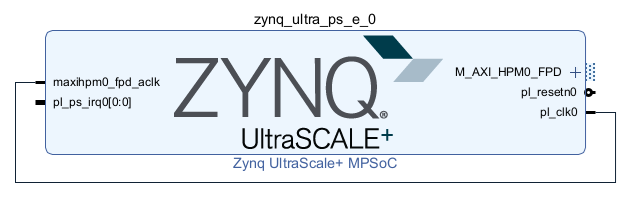
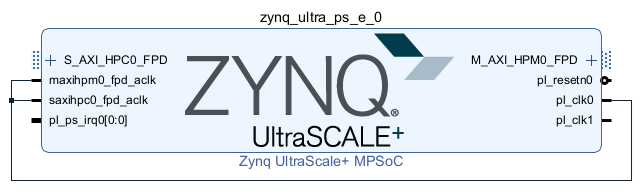
Antelope tutorial: Add DPU IP

Changed region(s): [[0.0, 0.0615, 0.9905, 0.9538]]

diff --git a/src/tutorials/antelope/zero_to_hero/dpu.rst b/src/tutorials/antelope/zero_to_hero/dpu.rst
@@ -1,0 +1,319 @@
+Deep-learning Processor Unit
+============================
+
+Goal
+----
+
+.. note:: TODO
+
+A bit of background
+-------------------
+
+.. note:: TODO
+
+Prerequisites
+-------------
+* Preset with Processing System configuration from :doc:`/tutorials/antelope/zero_to_hero/enable_pl_support`
+* Yocto project with Programmable Logic support from :doc:`/tutorials/antelope/zero_to_hero/enable_pl_support`
+
+Download Deep-learning Processor Unit repository
+------------------------------------------------
+1. On machine with Vivado create ``dpu-ip-repo`` directory.
+2. Download DPU IP block from https://xilinx.github.io/Vitis-AI/3.5/html/docs/workflow-system-integration.html#ip-and-reference-designs.
+
+   * Use 'IP-only download' link for 'MPSoC & Kria K26' platform.
+
+3. Unpack downloaded archive to ``dpu-ip-repo`` directory.
+
+   * Make sure that after extracting, directory ``DPUCZDX8G_v4_1_0`` is directly in ``dpu-ip-repo``.
+
+Create bitstream with Deep-learning Processor Unit
+---------------------------------------------------
+1. Start Vivado and create new project. In new project wizard select following options:
+
+   * Project type: RTL Project
+
+     * Select 'Don't specify sources at this time'
+     * Don't select 'Project is an extensible Vitis platform'
+
+   * Part: ``xczu4cg-sfvc784-1L-i``
+2. Add DPU IP repository to project
+
+   1. Open settings by clicking on 'Settings' in 'Flow Navigator'.
+   2. Go to 'Project Settings' -> 'IP' -> 'Repository'.
+   3. Add ``dpu-ip-repo`` directory to list of repositories.
+
+      Vivado will show confirmation message and list 'Deep-learning Process Unit' as newly added IP.
+
+3. Create top-level block design by using 'Create Block Design' in Flow Navigator. Use ``dpu_bd`` as name.
+4. In block design diagram editor add Zynq UltraScale+ MPSoC IP block.
+5. Start customization of Zynq UltraScale+ MPSoC IP block by double-clicking on it.
+
+   1. Apply previously exported preset by selecting ``Presets`` -> ``Apply configuration`` and select ``antelope-minimalistic-with-pl.tcl`` file.
+
+6. Add Deep-learning Process Unit IP block to block design.
+7. Customize Deep-learning Process Unit block by double-clicking on it.
+
+   1. On 'Arch' tab set 'Arch of DPU' to 'B1024'
+
+8. Add AXI SmartConnect IP to block design
+9. Customize AXI SmartConnect IP by double-clicking on it.
+
+   1. Set 'Number of slave interfaces' to '3'
+   2. Set 'Number of master interfaces' to '1'
+
+10. Connect output pin ``dpu0_interrupt`` of DPU IP block to input pin ``pl_ps_irq`` of Zynq UltraScale+ MPSoC IP block.
+11. Connect ``DPU0_M_AXI_DATA0`` output port to ``S00_AXI`` input port of AXI SmartConnect IP block.
+12. Connect ``DPU0_M_AXI_DATA1`` output port to ``S01_AXI`` input port of AXI SmartConnect IP block.
+13. Connect ``DPU0_M_AXI_INSTR`` output port to ``S02_AXI`` input port of AXI SmartConnect IP block.
+14. Click 'Run connection automation' to fill out missing connections
+
+    1. Enable all detected automations by checking checkbox for 'All automation'
+    2. Select 'All automation' / 'dpuczdx8g_0' / 'dpu_2x_clk' and change settings:
+
+       * Set 'Clock source' to '/zynq_ultra_ps_e_0/pl_clk1'
+
+    3. Select 'All automation' / 'dpuczdx8g_0' / 'm_axi_dpu_aclk' and change settings:
+
+       * Set 'Clock source' to '/zynq_ultra_ps_e_0/pl_clk0'
+
+    3. Select 'All automation' / 'dpuczdx8g_0' / 'S_AXI' and change settings:
+
+       * Set 'Clock source for driving Bridge IP' to '/zynq_ultra_ps_e_0/pl_clk0'
+       * Set 'Clock source for driving Slave interface' to '/zynq_ultra_ps_e_0/pl_clk0'
+       * Set 'Clock source for driving Master interface' to '/zynq_ultra_ps_e_0/pl_clk0'
+15. Final block design should look like this:
+
+    .. figure:: ./DPU/dpu_bd.png
+       :align: center
+
+       Block design with Deep-learning Processor Unit
+
+14. In Sources view select Design Sources -> ``dpu_bd`` and click 'Create HDL Wrapper' in context menu. Use 'Let Vivado manage wrapper and auto-update' option.
+15. Generate bitstream
+
+   .. warning:: Compared to previous tutorials, generating bitstream might take significantly longer time.
+
+16. Export hardware including bitstream to file ``antelope-dpu-bd.xsa``
+
+Add Vitis layers to Yocto Project
+---------------------------------
+1. Clone ``meta-oe`` layer
+
+   .. code-block:: shell-session
+
+      machine:~/antelope-linux-1/build$ git clone -b nanbield https://git.openembedded.org/meta-openembedded ../sources/meta-openembedded
+
+1. Clone Xilinx ``meta-vitis`` layer:
+
+   .. code-block:: shell-session
+
+       machine:~/antelope-linux-1/build$ git clone -b rel-v2024.1 https://github.com/Xilinx/meta-vitis.git ../sources/meta-vitis
+
+2. Retrieve KP Labs-provided ``meta-kp-vitis-ai`` layer and save it as ``~/antelope-linux-1/sources/meta-kp-vitis-ai``.
+3. Apply patches to ``meta-vitis`` that fix support for ``nanbield`` Yocto version
+
+   .. code-block:: shell-session
+
+       machine:~/antelope-linux-1/sources/meta-vitis$ git am ../meta-kp-vitis-ai/patches/*.patch
+       Applying: Switch to nanbield
+       Applying: bbappend to any glog version
+
+4. Add layers to Yocto project:
+
+   .. code-block:: shell-session
+
+      machine:~/antelope-linux-1/build$ bitbake-layers add-layer ../sources/meta-openembedded/meta-oe
+      machine:~/antelope-linux-1/build$ bitbake-layers add-layer ../sources/meta-openembedded/meta-python
+      machine:~/antelope-linux-1/build$ bitbake-layers add-layer ../sources/meta-vitis
+      machine:~/antelope-linux-1/build$ bitbake-layers add-layer ../sources/meta-kp-vitis-ai
+
+5. Change recipe providing ``opencl-icd`` by adding configuarion option to ``~/antelope-linux-1/build/conf/local.conf``.
+
+   .. code-block::
+
+       PREFERRED_PROVIDER_virtual/opencl-icd = "ocl-icd"
+
+   .. note:: ``meta-vitis`` layer requires particular project configuration
+
+Add Deep-learning Processor Unit bitstream to Linux image
+---------------------------------------------------------
+1. Create directory ``~/antelope-linux-1/sources/meta-local/recipes-example/bitstreams/antelope-dpu/`` and copy ``antelope-dpu-bd.xsa`` to it.
+2. Create new recipe ``~/antelope-linux-1/sources/meta-local/recipes-example/bitstreams/antelope-dpu.bb`` that will install bitstream with double UART.
+
+   .. code-block::
+
+        LICENSE = "CLOSED"
+
+        inherit bitstream
+
+        SRC_URI += "file://antelope-dpu-bd.xsa"
+        BITSTREAM_HDF_FILE = "${WORKDIR}/antelope-dpu-bd.xsa"
+
+3. Create recipe append for kernel
+
+   .. code-block:: shell-session
+
+       machine:~/antelope-linux-1/build$ recipetool newappend --wildcard-version ../sources/meta-local/ linux-xlnx
+
+4. Create directory ``~/antelope-linux-1/sources/meta-local/recipes-kernel/linux/linux-xlnx``.
+5. Enable Xilinx DPU kernel driver module by creating file ``~/antelope-linux-1/sources/meta-local/recipes-kernel/linux/linux-xlnx/xlnx-dpu.cfg`` with content
+
+   .. code-block::
+
+      CONFIG_XILINX_DPU=m
+
+6. Enable kernel configuration fragment by adding it to ``~/antelope-linux-1/sources/meta-local/recipes-kernel/linux/linux-xlnx/linux-xlnx_%.bbappend``
+
+   .. code-block::
+
+      FILESEXTRAPATHS_prepend := "${THISDIR}/${PN}:"
+
+      SRC_URI += "file://xlnx-dpu.cfg"
+
+3. Add new packages into Linux image by editing ``~/antelope-linux-1/sources/meta-local/recipes-core/images/core-image-minimal.bbappend``
+
+   .. code-block::
+
+        IMAGE_INSTALL += "\
+            fpga-manager-script \
+            double-uart \
+            antelope-dpu \
+            vart \
+            xir \
+            vitis-ai-library \
+            kernel-module-xlnx-dpu \
+        "
+
+5. Build firmware and image
+
+   .. code-block:: shell-session
+
+       machine:~/antelope-linux-1$ bitbake core-image-minimal bootbin-firmware boot-script-pins virtual/kernel device-tree
+
+6. Prepare build artifacts for transfer to EGSE Host
+
+   .. code-block:: shell-session
+
+        machine:~/antelope-linux-1$ mkdir -p ./egse-host-transfer
+        machine:~/antelope-linux-1$ cp build/tmp/deploy/images/antelope/bootbins/boot-firmware.bin ./egse-host-transfer/
+        machine:~/antelope-linux-1$ cp build/tmp/deploy/images/antelope/u-boot-scripts/boot-script-pins/boot-pins.scr ./egse-host-transfer/
+        machine:~/antelope-linux-1$ cp build/tmp/deploy/images/antelope/system.dtb ./egse-host-transfer/
+        machine:~/antelope-linux-1$ cp build/tmp/deploy/images/antelope/Image ./egse-host-transfer/
+        machine:~/antelope-linux-1$ cp build/tmp/deploy/images/antelope/core-image-minimal-antelope.rootfs.cpio.gz.u-boot ./egse-host-transfer/
+
+7. Transfer content of ``egse-host-transfer`` directory to EGSE Host and place it in ``/var/tftp/tutorial`` directory
+
+
+Run model on Deep-learning Processor Unit
+-----------------------------------------
+1. Verify that all necessary artifacts are present on EGSE Host:
+
+   .. code-block:: shell-session
+
+       customer@egse-host:~$ ls -lh /var/tftp/tutorial
+       total 30M
+       -rw-rw-r-- 1 customer customer  22M Jul 10 11:14 Image
+       -rw-rw-r-- 1 customer customer 1.6M Jul 10 11:14 boot-firmware.bin
+       -rw-rw-r-- 1 customer customer 2.8K Jul 10 11:14 boot-pins.scr
+       -rw-rw-r-- 1 customer customer  86M Jul 10 11:14 core-image-minimal-antelope.rootfs.cpio.gz.u-boot
+       -rw-rw-r-- 1 customer customer  37K Jul 10 11:14 system.dtb
+
+   .. note:: Exact file size might differ a bit but they should be in the same range (for example ``core-image-minimal-antelope.rootfs.cpio.gz.u-boot`` shall be about ~20MB)
+
+2. Power on Antelope
+
+   .. code-block:: shell-session
+
+       customer@egse-367mwbwfg5wy2:~$ sml power on
+       Powering on...Success
+
+3. Power on DPU
+
+   .. code-block:: shell-session
+
+       customer@egse-367mwbwfg5wy2:~$ sml dpu power on
+       Powering on...Success
+
+4. Write boot firmware to DPU boot flash
+
+   .. code-block:: shell-session
+
+       customer@egse-367mwbwfg5wy2:~$ sml dpu boot-flash write 0 /var/tftp/tutorial/boot-firmware.bin
+       Uploading   ━━━━━━━━━━━━━━━━━━━━━━━━━━━━━━━━━━━━━━━━ 100% 0:00:00 43.1 MB/s
+       Erasing     ━━━━━━━━━━━━━━━━━━━━━━━━━━━━━━━━━━━━━━━━ 100% 0:00:00 383.9 kB/s
+       Programming ━━━━━━━━━━━━━━━━━━━━━━━━━━━━━━━━━━━━━━━━ 100% 0:00:00 13.1 kB/s
+
+5. Write U-Boot boot script to DPU boot flash
+
+   .. code-block:: shell-session
+
+       customer@egse-367mwbwfg5wy2:~$ sml dpu boot-flash write 0x4E0000 /var/tftp/tutorial/boot-pins.scr
+       Uploading   ━━━━━━━━━━━━━━━━━━━━━━━━━━━━━━━━━━━━━━━━ 100% 0:00:00 ?
+       Erasing     ━━━━━━━━━━━━━━━━━━━━━━━━━━━━━━━━━━━━━━━━ 100% 0:00:00 ?
+       Programming ━━━━━━━━━━━━━━━━━━━━━━━━━━━━━━━━━━━━━━━━ 100% 0:00:00 63.9 MB/s
+
+8. Open second SSH connection to EGSE Host and start ``minicom`` to observe boot process
+
+   .. code-block:: shell-session
+
+       customer@egse-host:~$ minicom -D /dev/sml/antelope-dpu-uart
+
+    Leave this terminal open and get back to SSH connection used in previous steps.
+
+9. Release DPU from reset
+
+   .. code-block:: shell-session
+
+      customer@egse-host:~$ sml dpu reset off 7
+
+10. DPU boot process should be visible in ``minicom`` terminal
+11. Log in to DPU using ``root`` user
+
+    .. code-block::
+
+      antelope login: root
+      root@antelope:~#
+
+12. Load DPU bitstream
+
+   .. code-block::
+
+        root@antelope:~# fpgautil -o /lib/firmware/antelope-dpu/overlay.dtbo
+
+13. Verify that DPU instance is visible in system
+
+    .. code-block:: shell-session
+
+        root@antelope:~# xdputil query
+        {
+           "DPU IP Spec":{
+              "DPU Core Count":1,
+              "IP version":"v4.1.0",
+              "enable softmax":"False"
+           },
+           "VAI Version":{
+              "libvart-runner.so":"Xilinx vart-runner Version: 3.5.0-b7953a2a9f60e23efdfced5c186328dd144966,
+              "libvitis_ai_library-dpu_task.so":"Advanced Micro Devices vitis_ai_library dpu_task Version: ,
+              "libxir.so":"Xilinx xir Version: xir-b7953a2a9f60e23efdfced5c186328dd1449665c 2024-07-15-16:5,
+              "target_factory":"target-factory.3.5.0 b7953a2a9f60e23efdfced5c186328dd1449665c"
+           },
+           "kernels":[
+              {
+                    "DPU Arch":"DPUCZDX8G_ISA1_B1024",
+                    "DPU Frequency (MHz)":100,
+                    "XRT Frequency (MHz)":100,
+                    "cu_idx":0,
+                    "fingerprint":"0x101000056010402",
+                    "is_vivado_flow":true,
+                    "name":"DPU Core 0"
+              }
+           ]
+        }
+
+.. note:: TODO Run model
+
+Summary
+-------
+
+.. note:: TODO

diff --git a/src/tutorials/antelope/zero_to_hero/enable_pl_support.rst b/src/tutorials/antelope/zero_to_hero/enable_pl_support.rst
@@ -39,26 +39,34 @@ Enable programmable logic support
 3. Customize Zynq UltraScale+ block by double-clicking on it
 
    * Enable PL to PS interrupts ``IRQ0[0-7]``
-   * Enable PS to PL Master interface ``AXI HPM0 FPD``
+   * Enable PS-PL Master interface ``AXI HPM0 FPD``
+   * Enable PL-PS Slave interface ``AXI HPC0 FPD``
    * Enable Fabric Reset Enable
-   * Enable PL fabric clock ``PL0`` in Output clocks section
+   * Enable PL fabric clocks in Output clocks tab
+
+     * Enable ``PL0`` and set it to 100MHz
+     * Enable ``PL1`` and set it to 200MHz
+
    * Set Number of Fabric Resets to 1
 
 3. In ``top_bd`` block design connect ``maxihpm0_fpd_aclk`` to ``pl0_clk``
-4. At this point block design should contain single IP block with single connection
+4. In ``top_bd`` block design connect ``saxihpc0_fpd_aclk`` to ``pl0_clk``
+5. At this point block design should contain single IP block with single connection
 
    .. figure:: ./enable_pl_support/pl_support_enabled.png
       :align: center
 
       Block design with Zynq UltraScale+ IP block configured to support Programmable Logic
 
-5. Open customization of Zynq UltraScale+ IP block and export preset by selecting ``Presets`` -> ``Save configuration``
+6. Open customization of Zynq UltraScale+ IP block and export preset by selecting ``Presets`` -> ``Save configuration``
 
    * Use ``antelope-minimalistic-with-pl`` as preset name
    * Save to ``antelope-minimalistic-with-pl.tcl`` file
 
-6. Generate bitstream
-7. Export hardware without bitstream. Use ``antelope-minimalistic-pl-base.xsa`` for output file name.
+7. Generate bitstream
+8. Export hardware without bitstream. Use ``antelope-minimalistic-pl-base.xsa`` for output file name.
+
+.. note:: Selected Zynq UltraScale+ configuration covers needs of programmable logic content in this tutorial and next ones.
 
 Create double UART bitstream
 ----------------------------

diff --git a/src/tutorials/antelope/zero_to_hero/minimalist_linux_distro.rst b/src/tutorials/antelope/zero_to_hero/minimalist_linux_distro.rst
@@ -203,7 +203,7 @@ Build project
 
    .. code-block:: shell-session
 
-        machine:~/antelope-linux-1$ mkdir ./egse-host-transfer
+        machine:~/antelope-linux-1$ mkdir -p ./egse-host-transfer
         machine:~/antelope-linux-1$ cp build/tmp/deploy/images/antelope/bootbins/boot-firmware.bin ./egse-host-transfer/
         machine:~/antelope-linux-1$ cp build/tmp/deploy/images/antelope/u-boot-scripts/boot-script-pins/boot-pins.scr ./egse-host-transfer/
         machine:~/antelope-linux-1$ cp build/tmp/deploy/images/antelope/system.dtb ./egse-host-transfer/

diff --git a/src/tutorials/antelope/zero_to_hero/index.rst b/src/tutorials/antelope/zero_to_hero/index.rst
@@ -7,3 +7,4 @@ Zero to hero
     minimalist_vivado_project
     minimalist_linux_distro
     enable_pl_support
+    dpu
